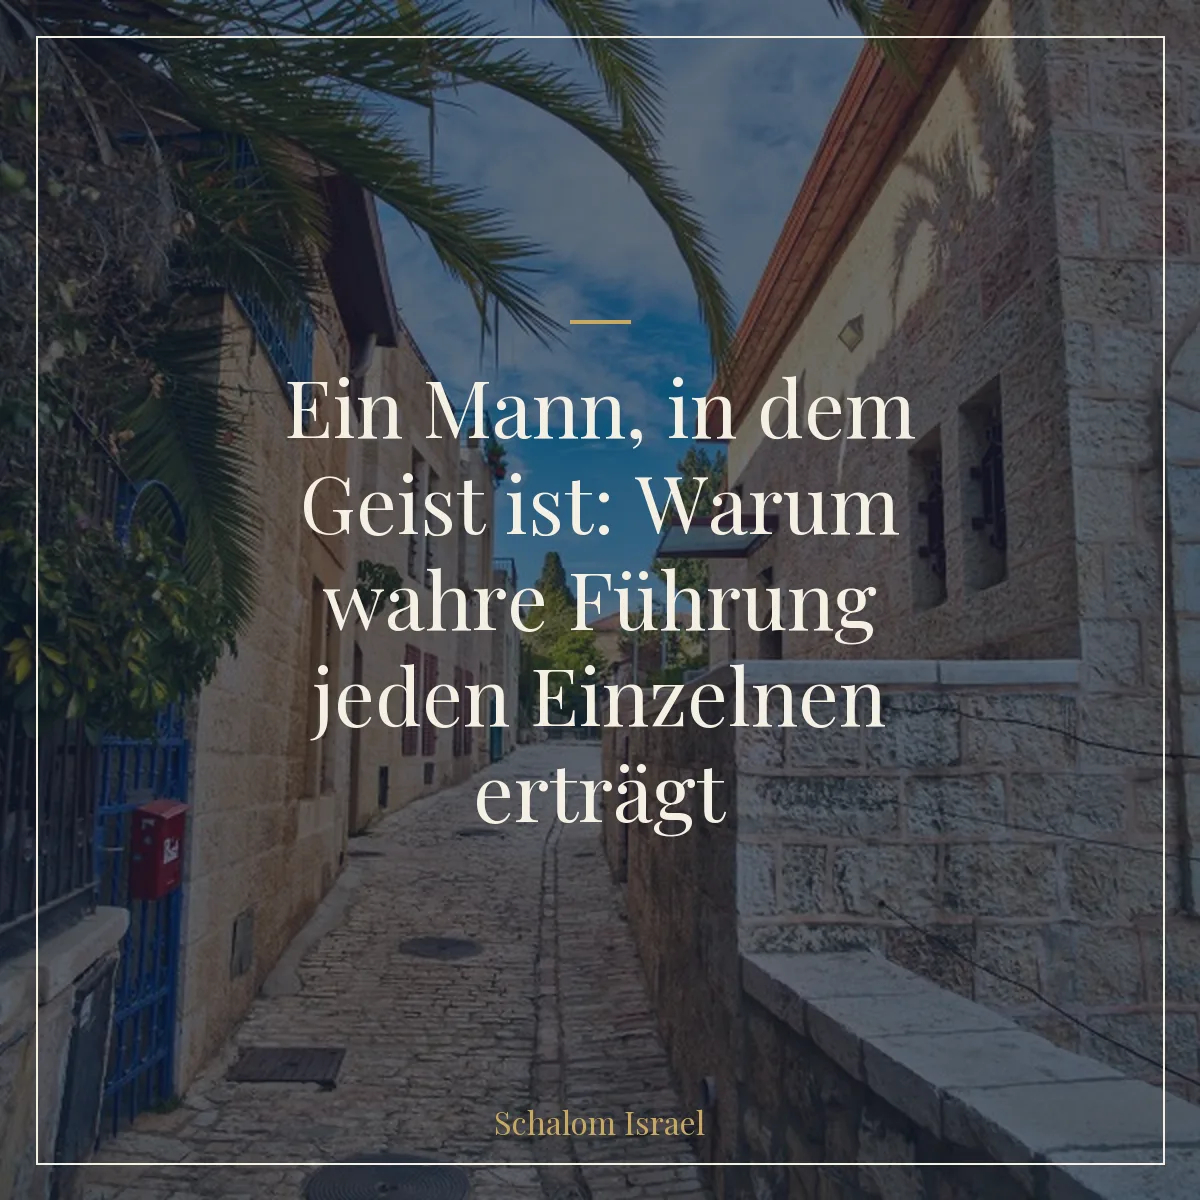
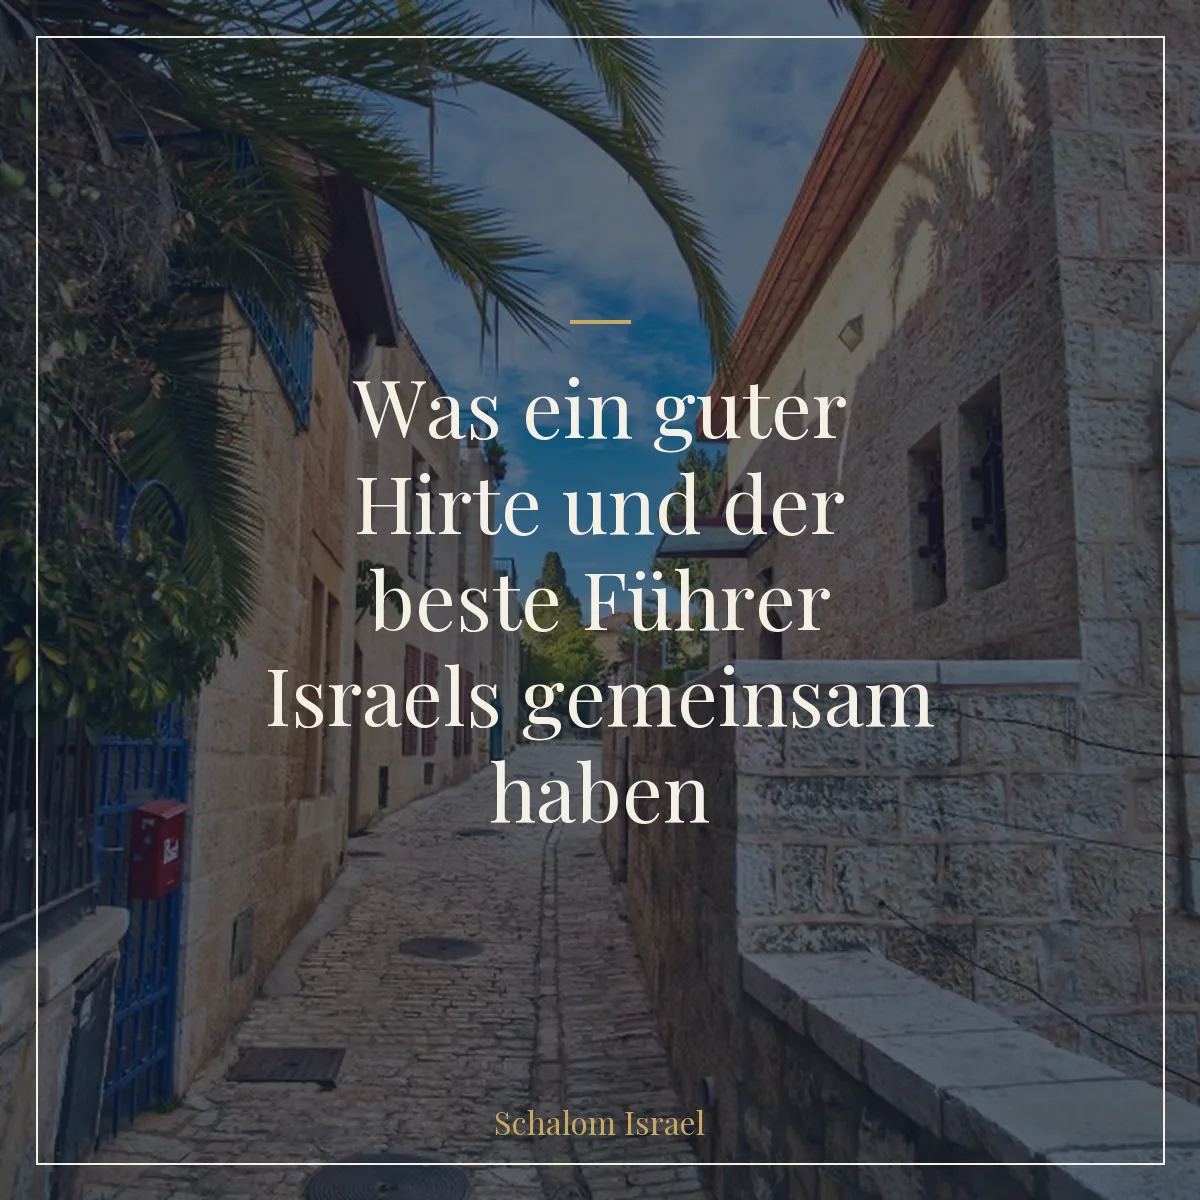
feat(si): Titel des Pinchas-Artikels auf Hirte/Fuehrer-Formulierung

Changed region(s): [[0.2467, 0.3083, 0.7708, 0.5242], [0.2158, 0.555, 0.7708, 0.7092]]

diff --git a/ein-mann-in-dem-geist-ist/index.html b/ein-mann-in-dem-geist-ist/index.html
@@ -4,9 +4,9 @@
   <meta charset="UTF-8">
   <link rel="icon" type="image/svg+xml" href="/favicon.svg">
   <meta name="viewport" content="width=device-width, initial-scale=1.0">
-  <title>Ein Mann, in dem Geist ist: Warum wahre Führung jeden Einzelnen erträgt – Schalom Israel</title>
+  <title>Was ein guter Hirte und der beste Führer Israels gemeinsam haben – Schalom Israel</title>
   <meta name="description" content="Mosche bittet nicht um einen starken oder weisen Nachfolger, sondern um einen Mann, in dem Geist ist. Was dieser rätselhafte Ausdruck wirklich meint – und warum der beste Führer Israels bewusst kein zweiter Mosche war.">
-  <meta property="og:title" content="Ein Mann, in dem Geist ist: Warum wahre Führung jeden Einzelnen erträgt">
+  <meta property="og:title" content="Was ein guter Hirte und der beste Führer Israels gemeinsam haben">
   <meta property="og:description" content="Mosche bittet nicht um einen starken oder weisen Nachfolger, sondern um einen Mann, in dem Geist ist. Was dieser rätselhafte Ausdruck wirklich meint – und warum der beste Führer Israels bewusst kein zweiter Mosche war.">
   <meta property="og:image" content="https://www.schalomisrael.de/bilder/share/ein-mann-in-dem-geist-ist.webp">
   <meta property="og:url" content="https://www.schalomisrael.de/ein-mann-in-dem-geist-ist/">
@@ -22,7 +22,7 @@
   {
   "@context": "https://schema.org",
   "@type": "Article",
-  "headline": "Ein Mann, in dem Geist ist: Warum wahre Führung jeden Einzelnen erträgt",
+  "headline": "Was ein guter Hirte und der beste Führer Israels gemeinsam haben",
   "description": "Mosche bittet nicht um einen starken oder weisen Nachfolger, sondern um einen Mann, in dem Geist ist. Was dieser rätselhafte Ausdruck wirklich meint – und warum der beste Führer Israels bewusst kein zweiter Mosche war.",
   "image": "https://www.schalomisrael.de/bilder/share/ein-mann-in-dem-geist-ist.webp",
   "datePublished": "2026-07-03",
@@ -65,7 +65,7 @@
     {
       "@type": "ListItem",
       "position": 3,
-      "name": "Ein Mann, in dem Geist ist: Warum wahre Führung jeden Einzelnen erträgt"
+      "name": "Was ein guter Hirte und der beste Führer Israels gemeinsam haben"
     }
   ]
 }
@@ -84,7 +84,7 @@
         <span class="meta-divider">·</span>
         <span class="article-reading-time" data-reading-time>… Min Lesezeit</span>
       </div>
-      <h1 class="article-hero-title">Ein Mann, in dem Geist ist: Warum wahre Führung jeden Einzelnen erträgt</h1>
+      <h1 class="article-hero-title">Was ein guter Hirte und der beste Führer Israels gemeinsam haben</h1>
     </div>
   </header>
   <nav class="breadcrumb" aria-label="Brotkrumen-Navigation">
@@ -93,7 +93,7 @@
       <span class="breadcrumb-sep">›</span>
       <a href="/blog/">Blog</a>
       <span class="breadcrumb-sep">›</span>
-      <span class="breadcrumb-current">Ein Mann, in dem Geist ist</span>
+      <span class="breadcrumb-current">Guter Hirte, bester Führer</span>
     </div>
   </nav>
 
@@ -116,7 +116,7 @@
       <p>Mosche denkt an etwas anderes.</p>
 
       <figure class="article-share-img">
-        <img src="/bilder/share/ein-mann-in-dem-geist-ist.webp" alt="Ein Mann, in dem Geist ist: Warum wahre Führung jeden Einzelnen erträgt" loading="lazy" width="1200" height="1200">
+        <img src="/bilder/share/ein-mann-in-dem-geist-ist.webp" alt="Was ein guter Hirte und der beste Führer Israels gemeinsam haben" loading="lazy" width="1200" height="1200">
       </figure>
 
       <p>Seine erste Reaktion ist keine Klage. Es ist eine Bitte. Und sie gilt nicht ihm, sondern den Menschen, die er zurücklässt:</p>

diff --git a/themen/berufung-und-verantwortung/index.html b/themen/berufung-und-verantwortung/index.html
@@ -139,7 +139,7 @@
         "@type": "ListItem",
         "position": 1,
         "url": "https://www.schalomisrael.de/ein-mann-in-dem-geist-ist/",
-        "name": "Ein Mann, in dem Geist ist: Warum wahre Führung jeden Einzelnen erträgt"
+        "name": "Was ein guter Hirte und der beste Führer Israels gemeinsam haben"
       },
       {
         "@type": "ListItem",
@@ -235,11 +235,11 @@
     <div class="container">
       <article class="article-card" data-parasha="pinchas" data-book="bamidbar">
         <a href="/ein-mann-in-dem-geist-ist/" class="article-image-link">
-          <img src="/bilder/share/ein-mann-in-dem-geist-ist.webp" alt="Ein Mann, in dem Geist ist: Warum wahre Führung jeden Einzelnen erträgt" class="article-image">
+          <img src="/bilder/share/ein-mann-in-dem-geist-ist.webp" alt="Was ein guter Hirte und der beste Führer Israels gemeinsam haben" class="article-image">
         </a>
         <div class="article-body">
           <p class="article-author">Micha Levzion</p>
-          <h3 class="article-title"><a href="/ein-mann-in-dem-geist-ist/">Ein Mann, in dem Geist ist: Warum wahre Führung jeden Einzelnen erträgt</a></h3>
+          <h3 class="article-title"><a href="/ein-mann-in-dem-geist-ist/">Was ein guter Hirte und der beste Führer Israels gemeinsam haben</a></h3>
           <p class="article-excerpt">Mosche bittet um einen Nachfolger, aber nicht um einen starken oder weisen Mann, sondern um einen „Mann, in dem Geist ist". Wahre Führung zwingt nicht alle in dieselbe Form, sondern erträgt jeden Einzelnen nach seiner Art.</p>
           <a href="/ein-mann-in-dem-geist-ist/" class="btn btn--outline">Beitrag lesen</a>
         </div>

diff --git a/blog/index.html b/blog/index.html
@@ -253,11 +253,11 @@
 
       <article class="article-card" data-parasha="pinchas" data-book="bamidbar">
         <a href="/ein-mann-in-dem-geist-ist/" class="article-image-link">
-          <img src="../bilder/share/ein-mann-in-dem-geist-ist.webp" alt="Ein Mann, in dem Geist ist: Warum wahre Führung jeden Einzelnen erträgt" class="article-image">
+          <img src="../bilder/share/ein-mann-in-dem-geist-ist.webp" alt="Was ein guter Hirte und der beste Führer Israels gemeinsam haben" class="article-image">
         </a>
         <div class="article-body">
           <p class="article-author">Micha Levzion</p>
-          <h3 class="article-title"><a href="/ein-mann-in-dem-geist-ist/">Ein Mann, in dem Geist ist: Warum wahre Führung jeden Einzelnen erträgt</a></h3>
+          <h3 class="article-title"><a href="/ein-mann-in-dem-geist-ist/">Was ein guter Hirte und der beste Führer Israels gemeinsam haben</a></h3>
           <p class="article-excerpt">Mosche steht am Ende und bittet um einen Nachfolger. Aber nicht um einen starken oder weisen Mann, sondern um einen „Mann, in dem Geist ist". Was dieser rätselhafte Ausdruck wirklich meint, warum der beste Führer Israels bewusst kein zweiter Mosche war und was das mit dem Bild vom Hirten zu tun hat.</p>
           <a href="/ein-mann-in-dem-geist-ist/" class="btn btn--outline">Beitrag lesen</a>
         </div>

diff --git a/index.html b/index.html
@@ -244,11 +244,11 @@
 
       <article class="article-card">
         <a href="/ein-mann-in-dem-geist-ist/" class="article-image-link">
-          <img src="bilder/share/ein-mann-in-dem-geist-ist.webp" alt="Ein Mann, in dem Geist ist: Warum wahre Führung jeden Einzelnen erträgt" width="1200" height="1200" loading="lazy" class="article-image">
+          <img src="bilder/share/ein-mann-in-dem-geist-ist.webp" alt="Was ein guter Hirte und der beste Führer Israels gemeinsam haben" width="1200" height="1200" loading="lazy" class="article-image">
         </a>
         <div class="article-body">
           <p class="article-author">Micha Levzion</p>
-          <h3 class="article-title"><a href="/ein-mann-in-dem-geist-ist/">Ein Mann, in dem Geist ist: Warum wahre Führung jeden Einzelnen erträgt</a></h3>
+          <h3 class="article-title"><a href="/ein-mann-in-dem-geist-ist/">Was ein guter Hirte und der beste Führer Israels gemeinsam haben</a></h3>
           <p class="article-excerpt">Mosche bittet nicht um einen starken oder weisen Nachfolger, sondern um einen „Mann, in dem Geist ist". Was dieser rätselhafte Ausdruck wirklich meint – und warum der beste Führer Israels bewusst kein zweiter Mosche war.</p>
           <a href="/ein-mann-in-dem-geist-ist/" class="btn btn--outline">Beitrag lesen</a>
         </div>
